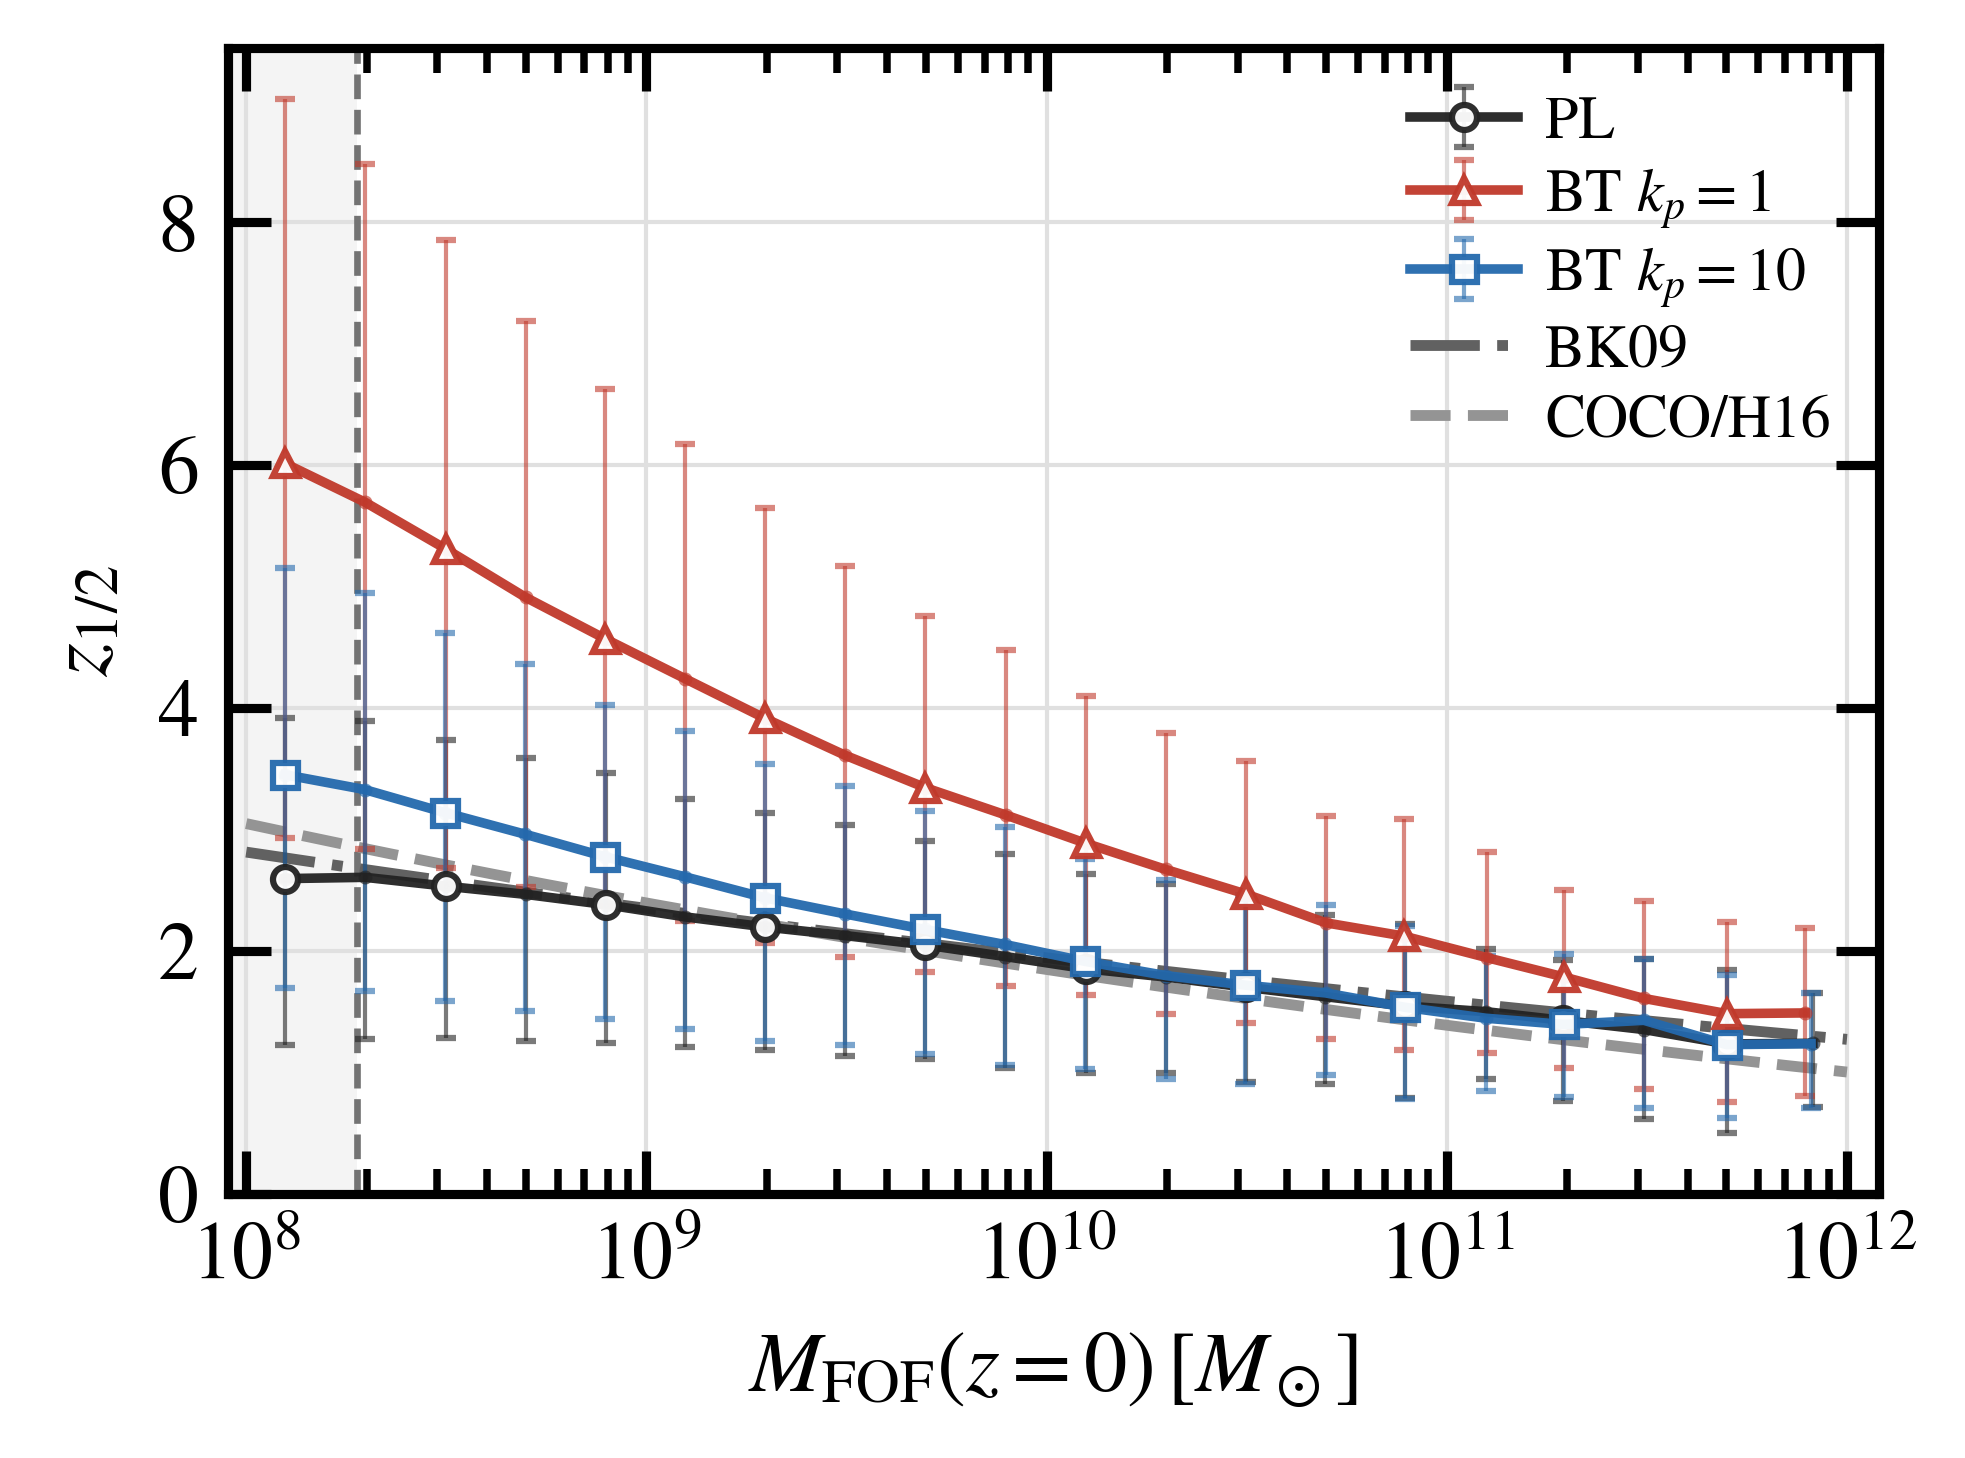
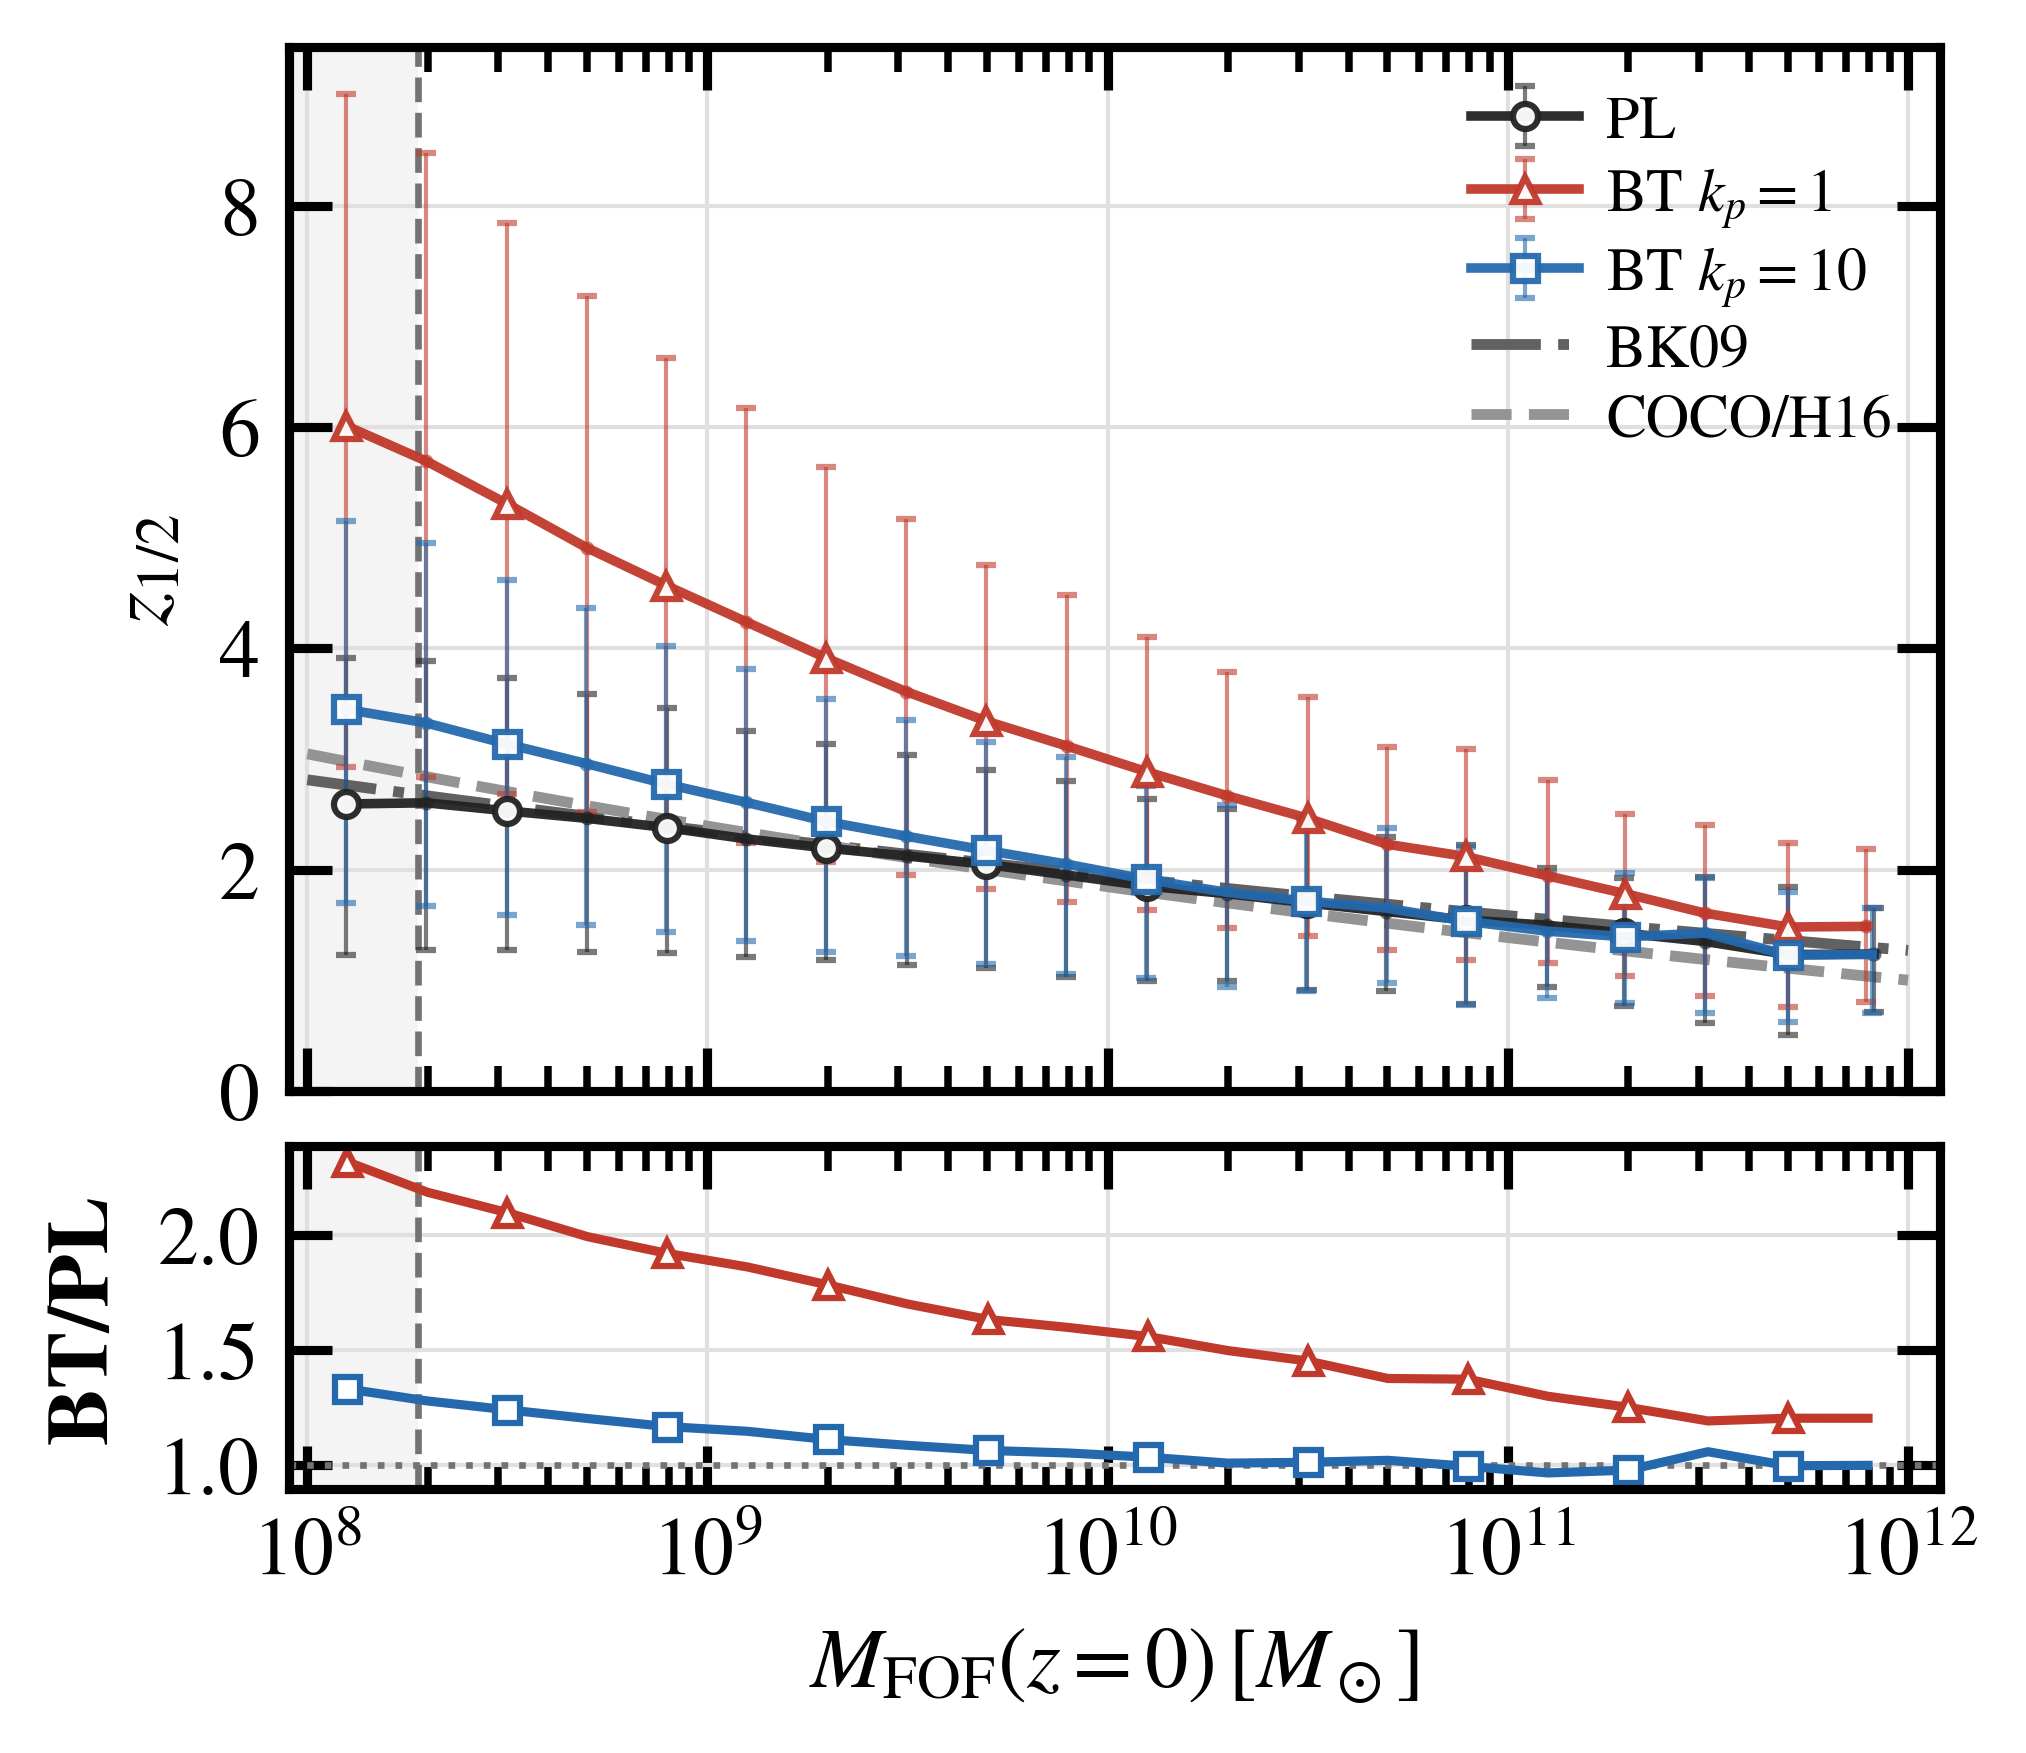
Add BT-to-PL ratios to the half-mass redshift figure

diff --git a/public_data/scripts/plot_same_trackid_no_envelope_allmodels.py b/public_data/scripts/plot_same_trackid_no_envelope_allmodels.py
@@ -283,14 +283,20 @@ def summarize(points: pd.DataFrame) -> pd.DataFrame:
 
 def plot(points: pd.DataFrame, output_path: Path = OUT_FIG) -> None:
     apply_journal_style(base_fontsize=8.8)
-    fig, ax = plt.subplots(figsize=(3.55, 2.48))
+    fig, (ax, ratio_ax) = plt.subplots(
+        2, 1, figsize=(3.55, 3.12), sharex=True,
+        gridspec_kw={"height_ratios": [3.05, 1.0], "hspace": 0.08},
+    )
     mgrid = np.logspace(8, 12, 300)
-    ax.axvspan(N20_MASS_MSUN, N100_MASS_MSUN, color="0.82", alpha=0.24, lw=0, zorder=0)
-    ax.axvline(N100_MASS_MSUN, color="0.45", ls="--", lw=0.8, zorder=1)
+    for axis in (ax, ratio_ax):
+        axis.axvspan(N20_MASS_MSUN, N100_MASS_MSUN, color="0.82", alpha=0.24, lw=0, zorder=0)
+        axis.axvline(N100_MASS_MSUN, color="0.45", ls="--", lw=0.8, zorder=1)
+    ratio_ax.axhline(1.0, color="0.45", lw=0.8, ls=":", zorder=1)
     bk09, = ax.plot(mgrid, bk09_original(mgrid), color="0.38", lw=1.3, ls="-.", label="BK09")
     coco, = ax.plot(mgrid, coco_hellwing16(mgrid), color="0.58", lw=1.3, ls="--", label="COCO/H16")
 
     handles = []
+    base = points[points["model"] == "PL"][["mass_bin", "left_msun", "right_msun", "zhalf"]]
     for model, info in MODELS.items():
         sub = points[points["model"] == model].sort_values("M0_mean_msun")
         handle = sparse_errorbar(
@@ -310,12 +316,26 @@ def plot(points: pd.DataFrame, output_path: Path = OUT_FIG) -> None:
             zorder=3,
         )
         handles.append(handle)
+        if model != "PL":
+            common = sub.merge(base, on="mass_bin", suffixes=("", "_pl"), validate="one_to_one")
+            for edge in ("left_msun", "right_msun"):
+                if not np.allclose(common[edge], common[f"{edge}_pl"], rtol=1e-12, atol=0):
+                    raise ValueError(f"{model} and PL have different half-mass bin edges")
+            common = common[np.isfinite(common["zhalf"]) &
+                            np.isfinite(common["zhalf_pl"]) & (common["zhalf_pl"] > 0)]
+            bin_centres = np.sqrt(common["left_msun"] * common["right_msun"])
+            ratio_ax.plot(bin_centres, common["zhalf"] / common["zhalf_pl"],
+                          info["marker"] + "-", color=info["color"], lw=1.1,
+                          ms=3.0, mfc="white", mew=0.75, markevery=2, label=info["label"])
 
-    ax.set(xscale="log", xlim=(9.0e7, 1.2e12),
-           xlabel=r"$M_{\rm FOF}(z=0)\,[M_\odot]$", ylabel=r"$z_{1/2}$")
+    ax.set(xscale="log", xlim=(9.0e7, 1.2e12), ylabel=r"$z_{1/2}$")
     ax.set_ylim(bottom=0)
-    format_axes(ax, grid=True)
-    ax.set_axisbelow(True)
+    ax.tick_params(labelbottom=False)
+    ratio_ax.set(xlabel=r"$M_{\rm FOF}(z=0)\,[M_\odot]$", ylabel="BT/PL")
+    ratio_ax.set_yticks([1.0, 1.5, 2.0])
+    for axis in (ax, ratio_ax):
+        format_axes(axis, grid=True)
+        axis.set_axisbelow(True)
     ax.legend(handles=handles + [bk09, coco], loc="upper right", fontsize=7.2,
               labelspacing=0.25, handletextpad=0.45)
     save_publication_figure(fig, output_path)

diff --git a/main.tex b/main.tex
@@ -338,7 +338,7 @@ For the 15 resolved PL bins spanning \(1.25\times10^9\le M_{\rm FOF}/M_\odot\le8
 \begin{figure}[t]
     \centering
     \includegraphics[width=\columnwidth]{halfmass-redshift-trackid-no-envelope.png}
-    \caption{Half-mass assembly redshift \(z_{1/2}\) as a function of final FOF mass \(M_{\rm FOF}\) at \(z=0\) for the PL, \BTKPone{}, and \BTKPten{} simulations. For each present-day FOF halo, its \textsc{HBT-HERONS} \texttt{TrackId} is used to follow the same object over snapshots 0021--0056. We determine \(z_{1/2}\) by linear interpolation at the first upward crossing of \(M_0/2\) between consecutive snapshots. Missing snapshots are not filled, and the recorded mass history is not forced to increase monotonically. The plotted values are the mean individual-halo \(z_{1/2}\) in each mass bin, and the error bars show the 16th--84th percentile halo-to-halo range. The dark-gray dot-dashed and gray dashed curves show the BK09 and COCO/Hellwing16 external \(\Lambda\)CDM reference relations based on a standard power-law primordial spectrum, respectively \citep{BoylanKolchin2009MSII,Hellwing16cocoproject}. The gray band marks the 20--100 particle mass interval, \(3.8\times10^7\)--\(1.9\times10^8\,M_\odot\), for the main runs. The quoted low-mass trends near \(10^9\,M_\odot\) are based on halos with \(\gtrsim5\times10^2\) particles at \(z=0\). Using these unsmoothed histories, PL remains close to the external relations while the blue-tilted models assemble earlier, with the strongest shift in \BTKPone{}.}
+    \caption{Half-mass assembly redshift \(z_{1/2}\) as a function of final FOF mass \(M_{\rm FOF}\) at \(z=0\) for the PL, \BTKPone{}, and \BTKPten{} simulations. For each present-day FOF halo, its \textsc{HBT-HERONS} \texttt{TrackId} is used to follow the same object over snapshots 0021--0056. We determine \(z_{1/2}\) by linear interpolation at the first upward crossing of \(M_0/2\) between consecutive snapshots. Missing snapshots are not filled, and the recorded mass history is not forced to increase monotonically. The plotted values are the mean individual-halo \(z_{1/2}\) in each mass bin, and the error bars show the 16th--84th percentile halo-to-halo range. The dark-gray dot-dashed and gray dashed curves show the BK09 and COCO/Hellwing16 external \(\Lambda\)CDM reference relations based on a standard power-law primordial spectrum, respectively \citep{BoylanKolchin2009MSII,Hellwing16cocoproject}. \change{The lower panel shows the ratio of the BT and PL mean \(z_{1/2}\) in each common mass bin, plotted at the geometric bin center.} The gray band marks the 20--100 particle mass interval, \(3.8\times10^7\)--\(1.9\times10^8\,M_\odot\), for the main runs. The quoted low-mass trends near \(10^9\,M_\odot\) are based on halos with \(\gtrsim5\times10^2\) particles at \(z=0\). Using these unsmoothed histories, PL remains close to the external relations while the blue-tilted models assemble earlier, with the strongest shift in \BTKPone{}.}
     \label{fig:half_mass_redshift}
 \end{figure}
 
